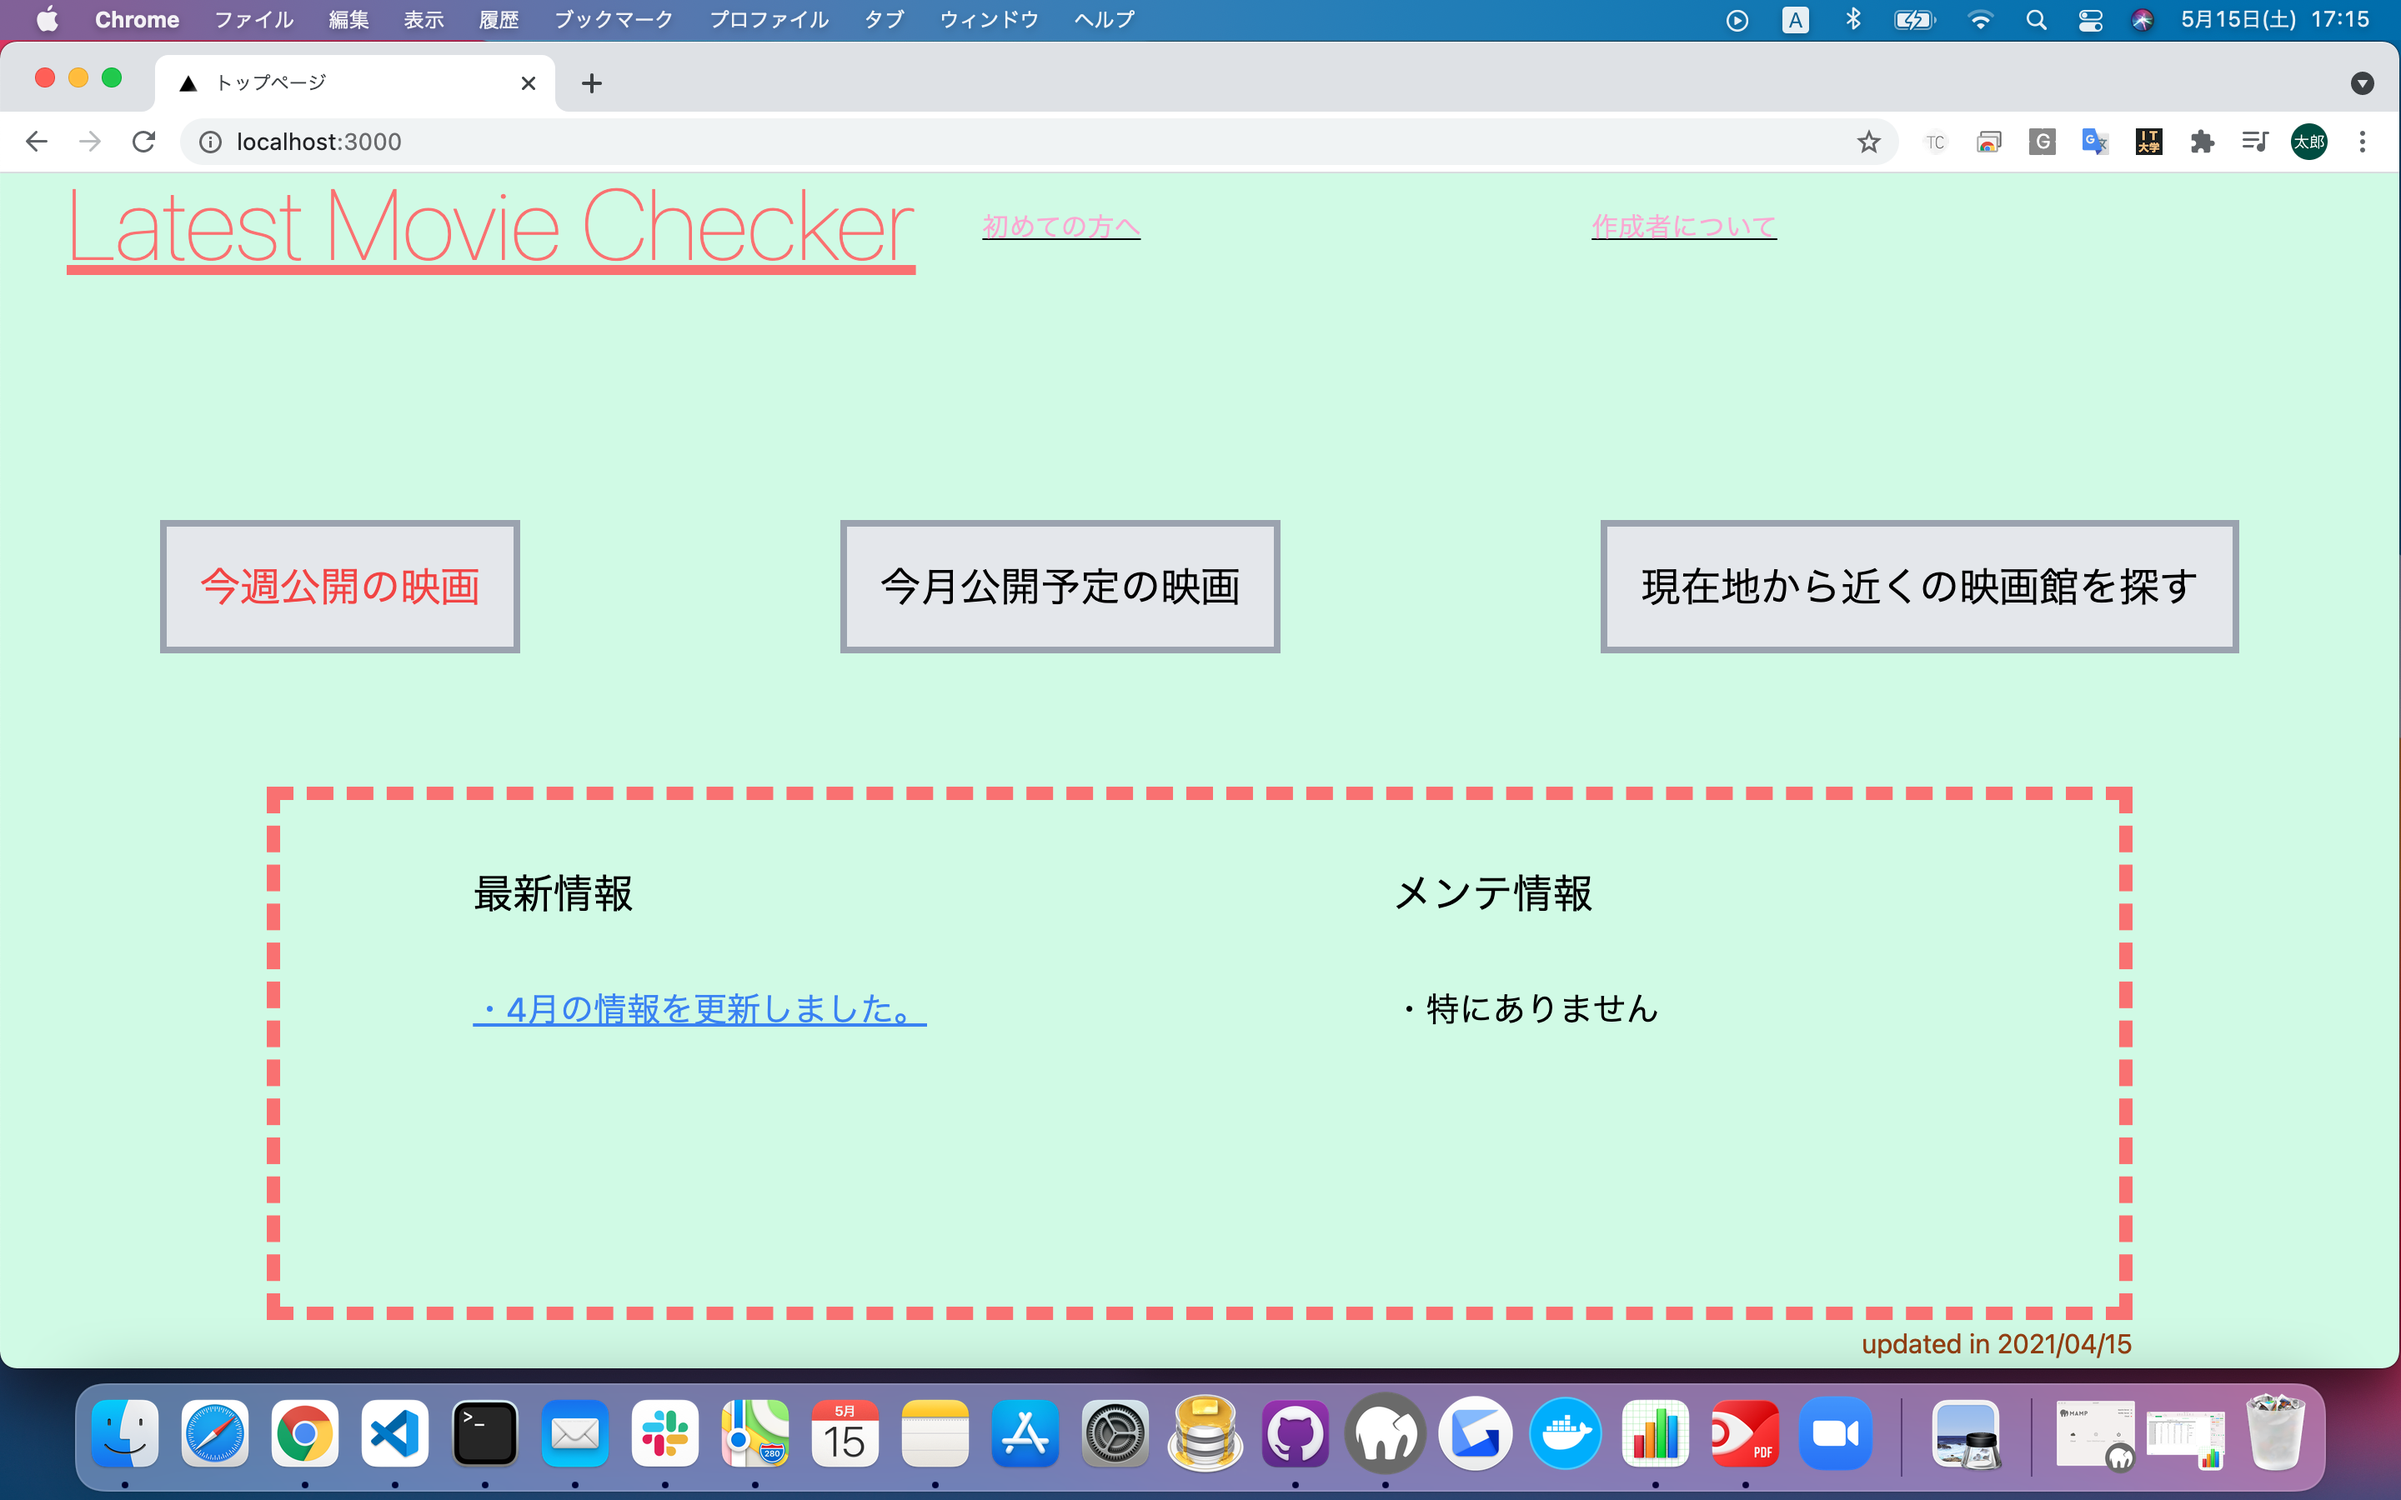
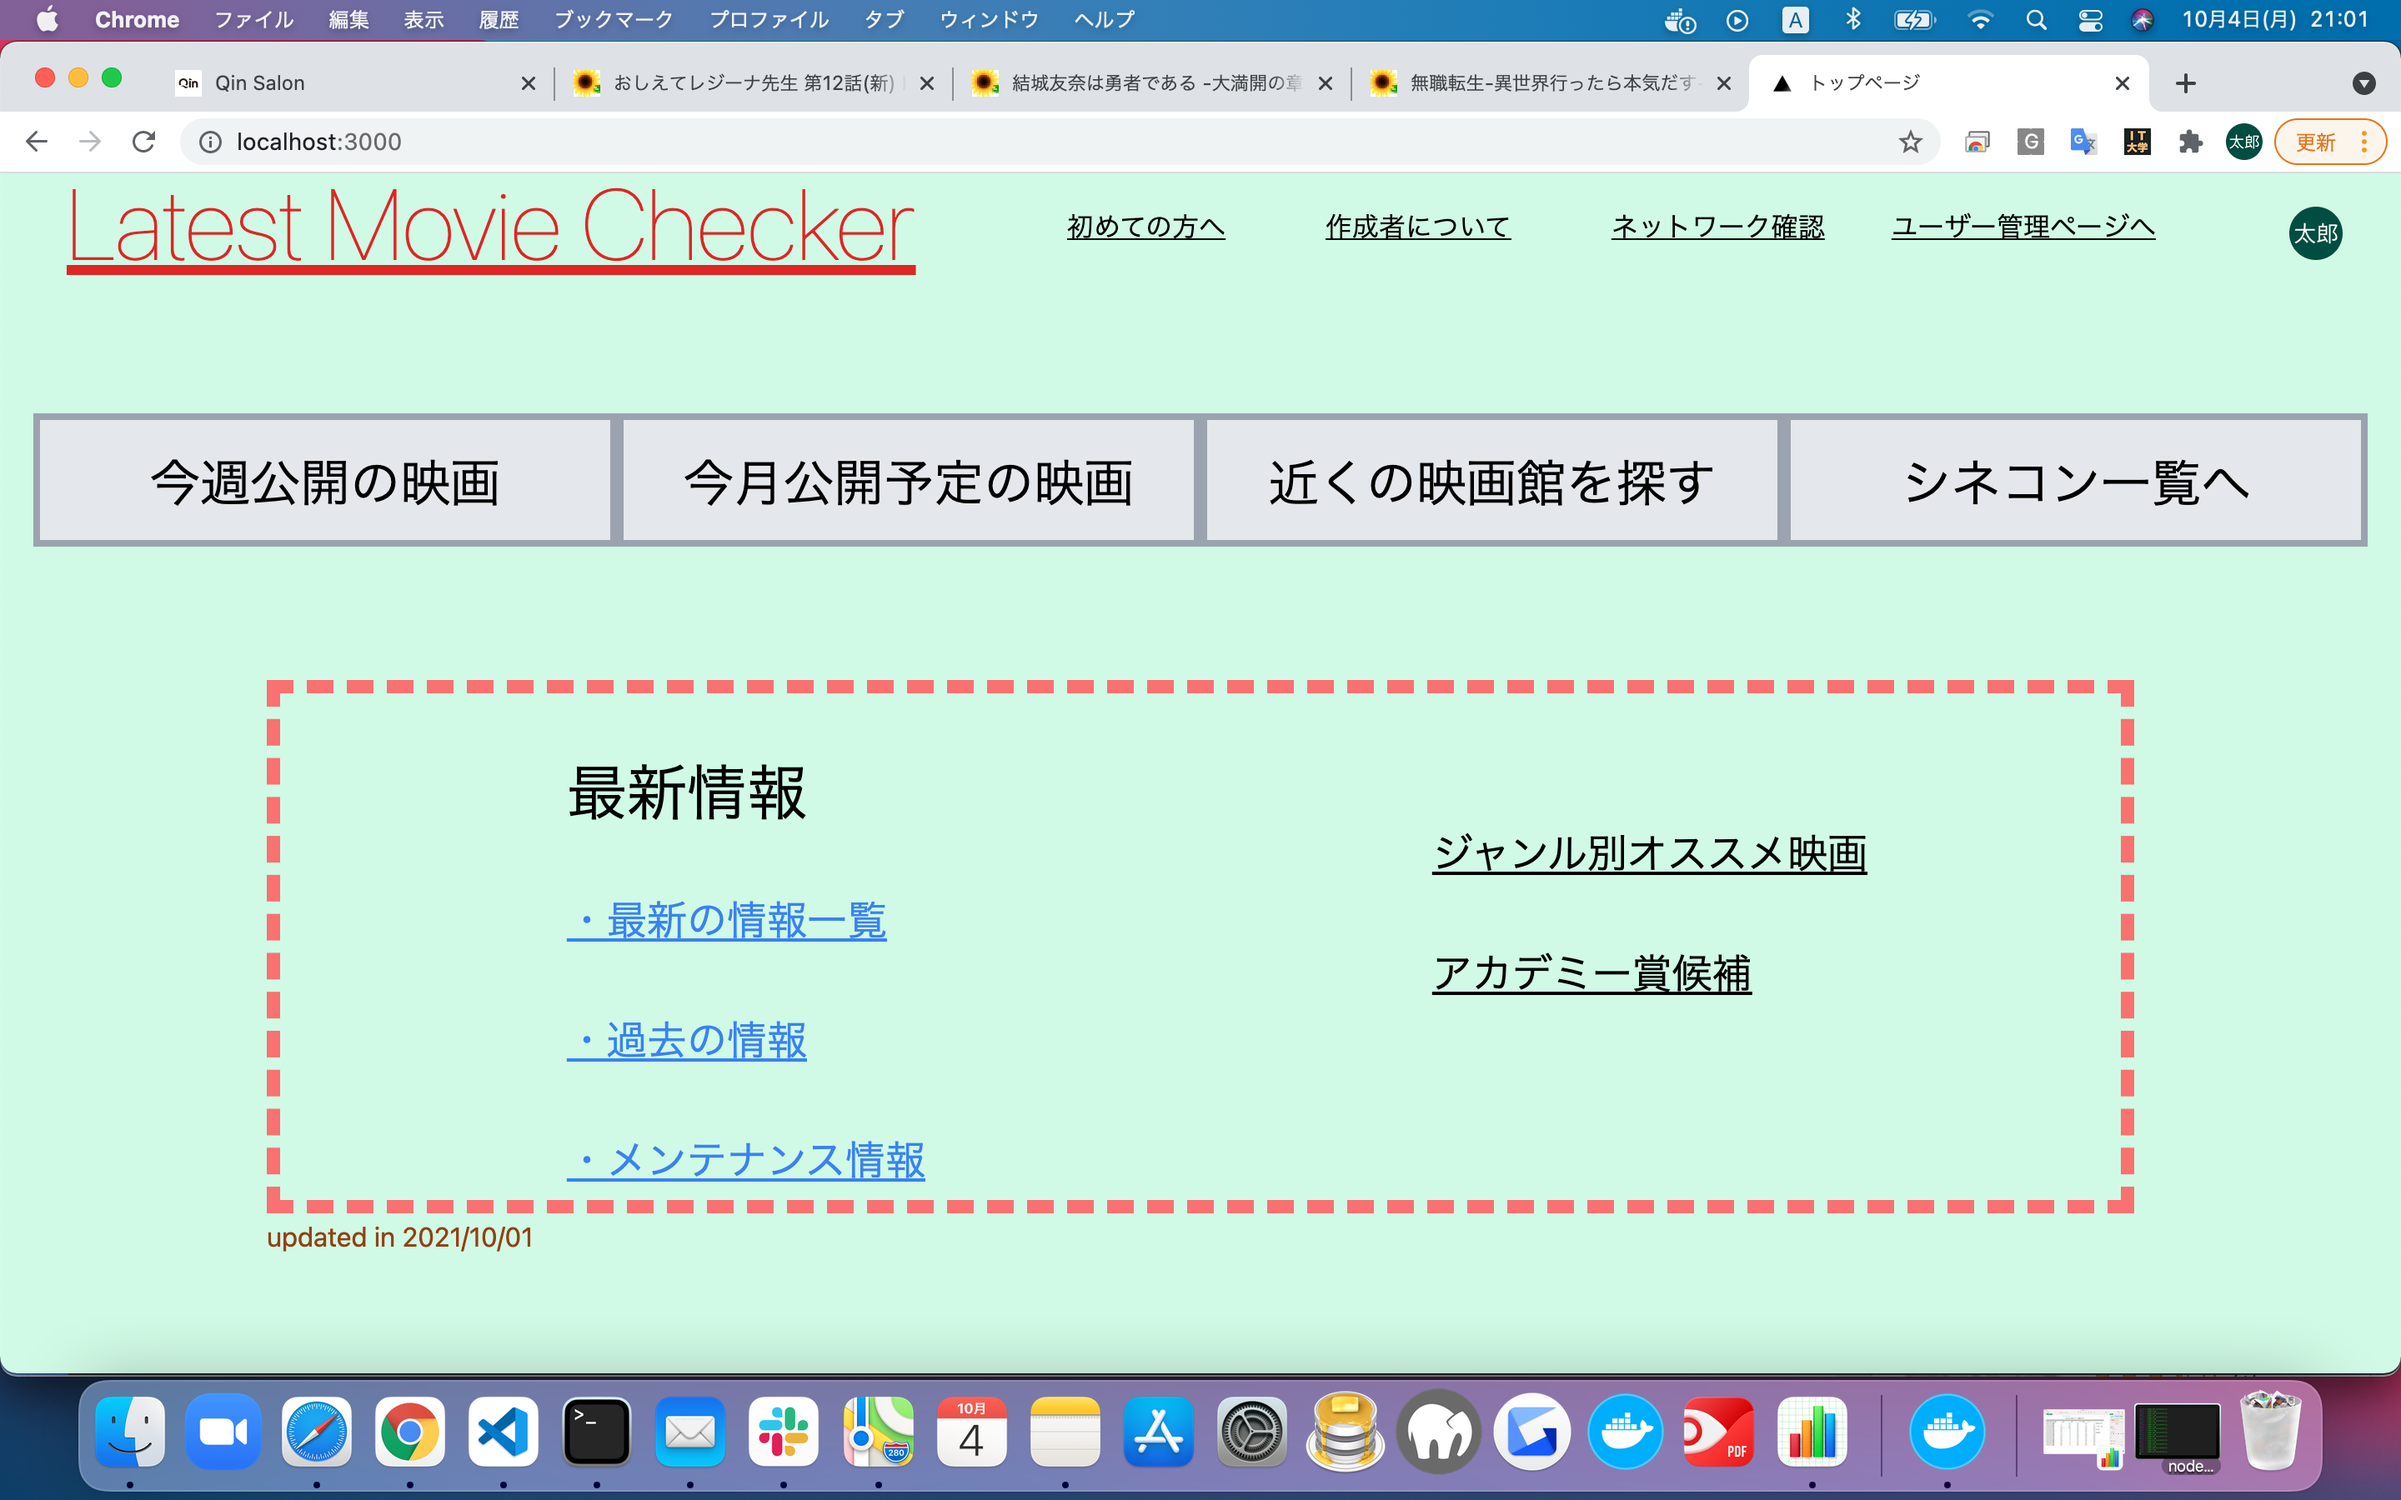
🔥 syuusei

diff --git a/src/components/main.jsx b/src/components/main.jsx
@@ -19,20 +19,18 @@ export function Main() {
           <a className="bg-center w-1/4 text-center bg-gray-200 text-0.5xl sm:text-3xl pt-5 pl-5 pr-5 hover:text-red-500 border-solid sm:border-4 sm:border-gray-400 border-2 border-gray-600">シネコン一覧へ</a>
         </Link>
       </div>
-      <div className="flex">
-        <div className="sm:flex justify-around mt-20 h-80 sm:border-dashed sm:border-8 sm:border-red-400 mr-40 ml-40 pl-10 pr-10">
-          <div>
-            <h1 className="sm:text-4xl mt-10">最新情報</h1>
-            <h2 className="mt-10 sm:text-2xl sm:w-100 text-blue-500 underline">
-              <Link href="/newest/news1">・最新の情報一覧</Link>
-            </h2>
-            <h3 className="mt-10 sm:text-2xl sm:w-100 text-blue-500 underline">
-              <Link href="/newest/ex-news">・過去の情報</Link>
-            </h3>
-          </div>
-          <div className="sm:text-2xl sm:ml-10 sm:mt-20 sm:mb-20 pt-10 text-blue-500 underline">
+      <div className="sm:flex justify-around mt-20 h-80 sm:border-dashed sm:border-8 sm:border-red-400 mr-40 ml-40 pl-10 pr-10">
+        <div>
+          <h1 className="sm:text-4xl mt-10">最新情報</h1>
+          <h2 className="mt-10 sm:text-2xl sm:w-100 text-blue-500 underline">
+            <Link href="/newest/news1">・最新の情報一覧</Link>
+          </h2>
+          <h3 className="mt-10 sm:text-2xl sm:w-100 text-blue-500 underline">
+            <Link href="/newest/ex-news">・過去の情報</Link>
+          </h3>
+          <h4 className="mt-10 sm:text-2xl sm:w-100 text-blue-500 underline">
             <Link href="/maintainance">・メンテナンス情報</Link>
-          </div>
+          </h4>
         </div>
         <div className="mt-10">
           <Link href="../category">

diff --git a/src/components/header.jsx b/src/components/header.jsx
@@ -44,10 +44,10 @@ export function Header() {
       <Link href="/header/creater">
         <a className="flex-none text-0.5xl sm:text-1xl ml-10 m-5 w-30 hover:text-red-600 underline">作成者について</a>
       </Link>
-      {/* <div>
+      <div>
         <button className="ml-10 mt-5 hover:text-red-600 underline" onClick={notify}>ネットワーク確認</button>
         <Toaster />
-      </div> */}
+      </div>
       <div>
         <div className="sm:visible invisible ml-10 mt-5 hover:text-red-600">
           <SignedIn>
